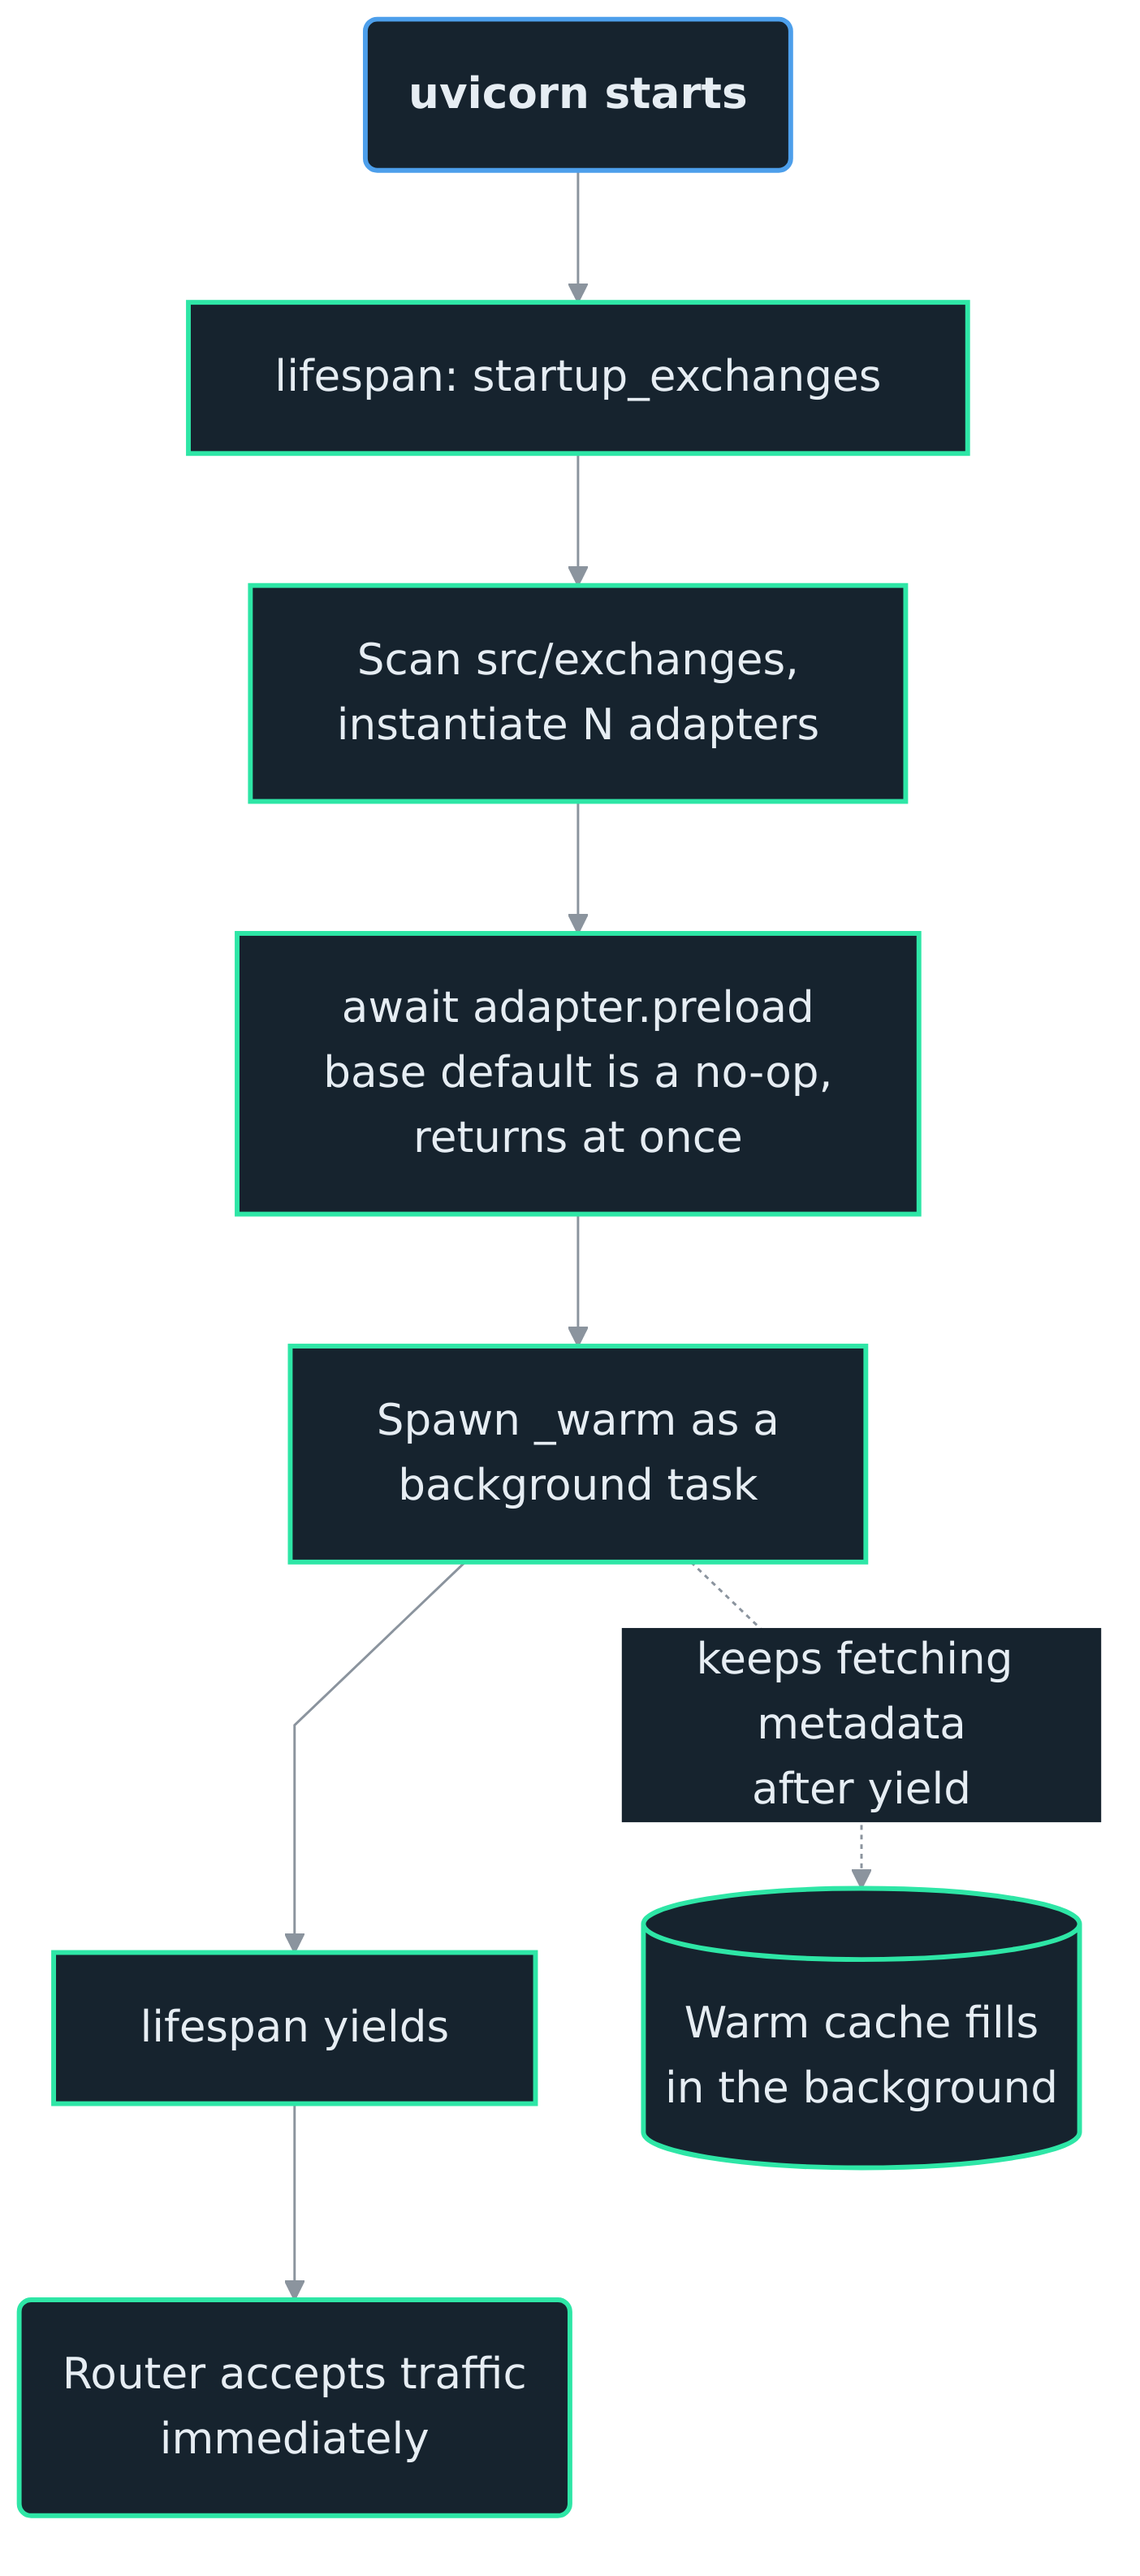
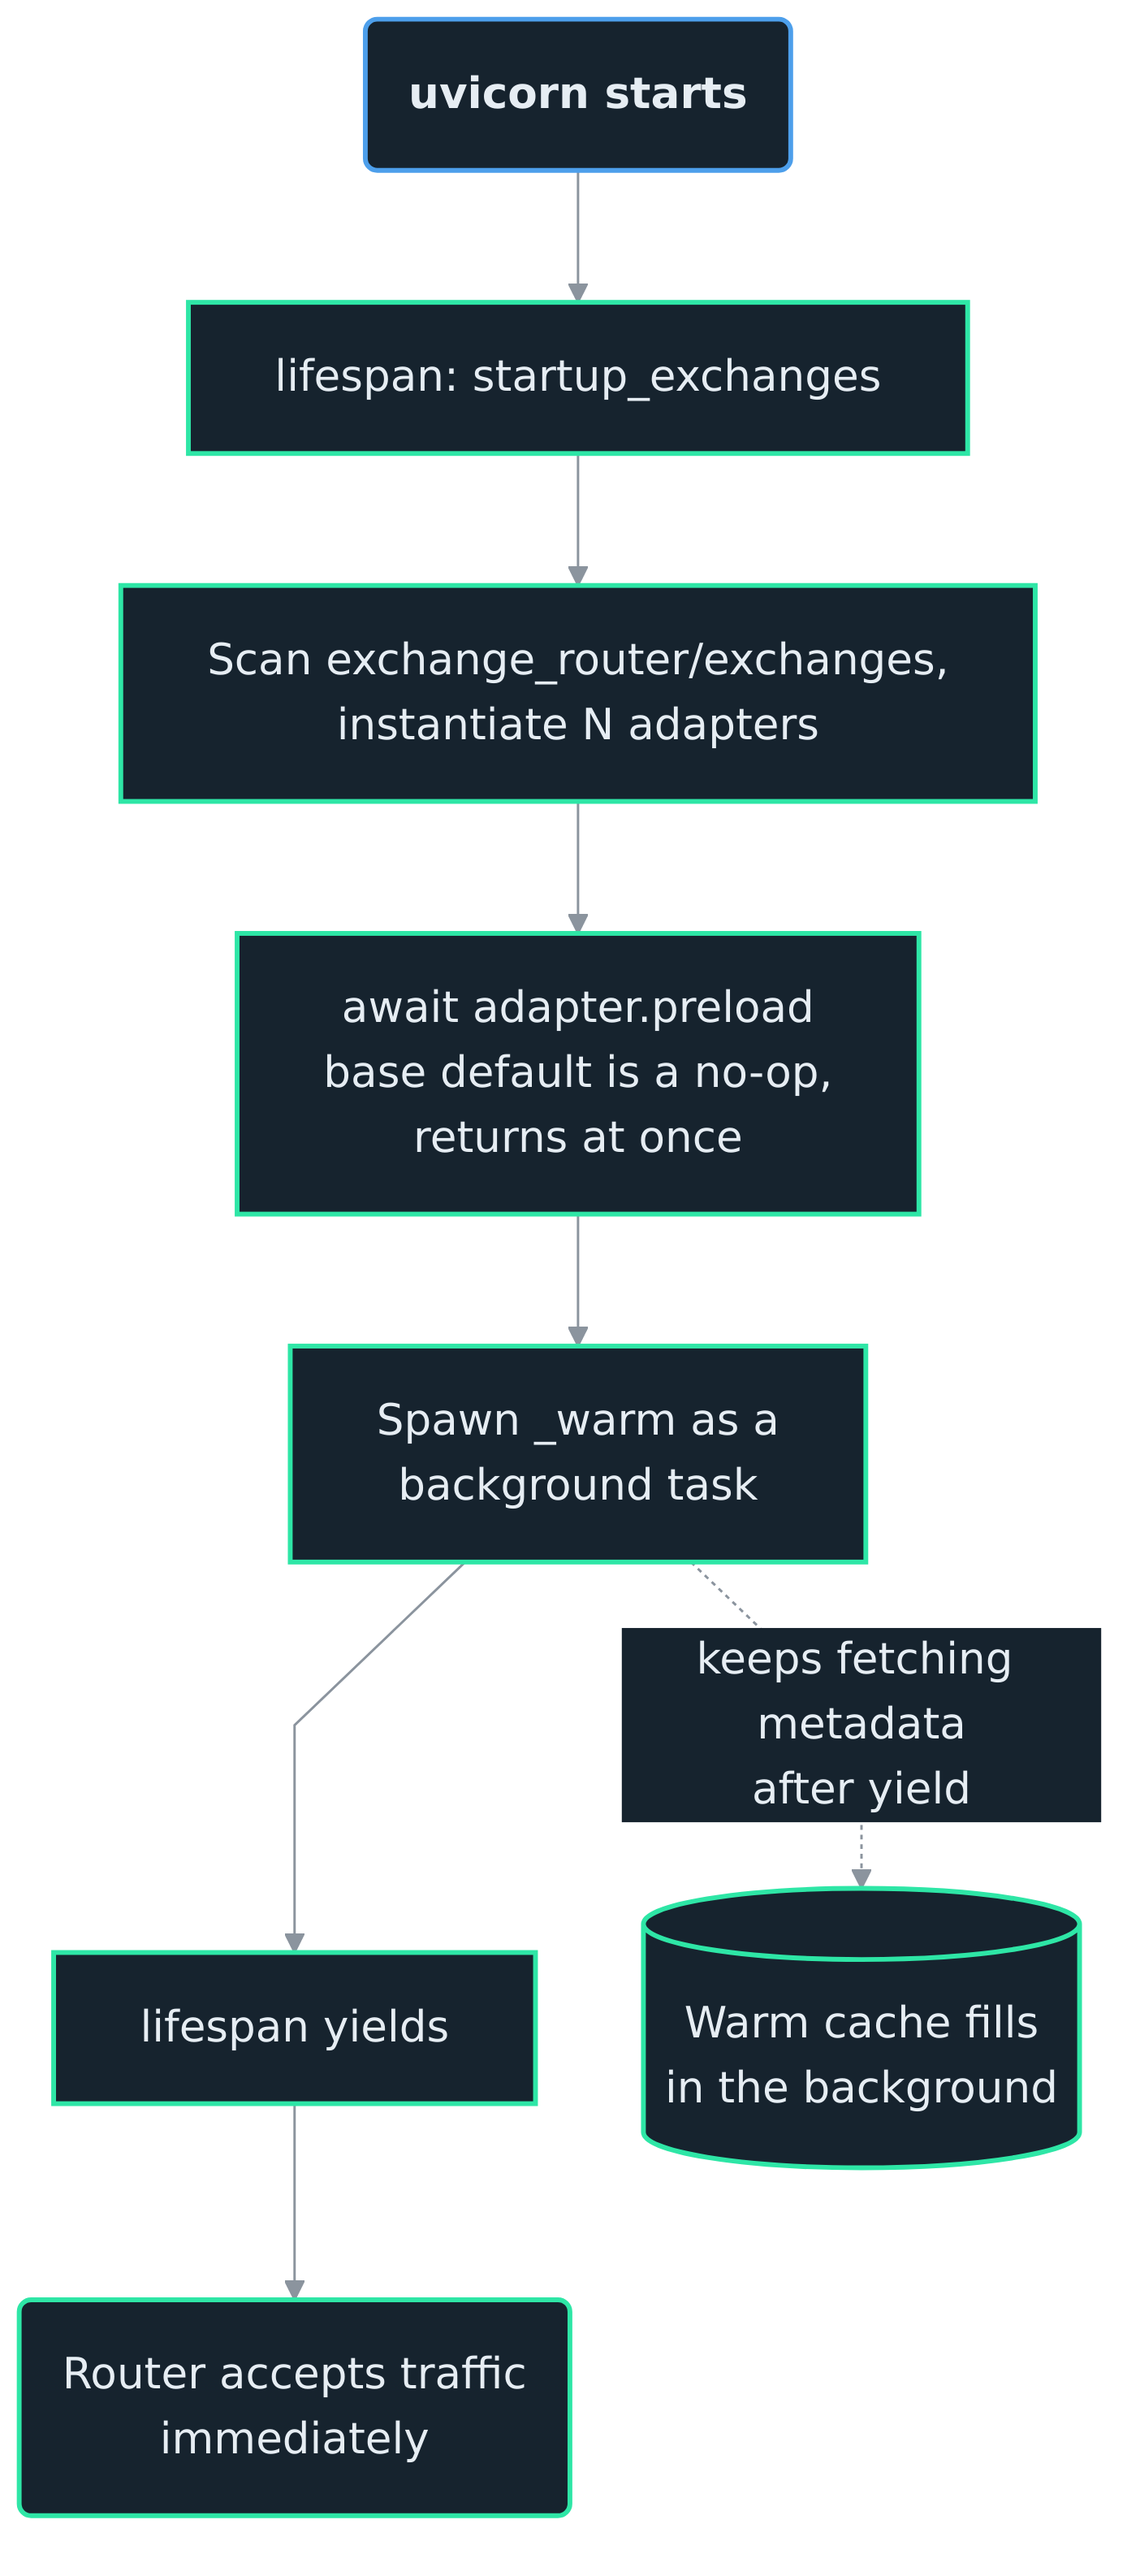
docs: redraw the hero for two modes, add the two-backend diagram and fix a stale path in the startup one

Changed region(s): [[0.0919, 0.2185, 0.9188, 0.3122]]

diff --git a/.Documentation/Contributor_Guide.md b/.Documentation/Contributor_Guide.md
@@ -91,7 +91,7 @@ docker run --rm --shm-size=1g \
   -c 'set -e; for f in /diagrams/*.mmd; do n=$(basename "$f" .mmd); /home/mermaidcli/node_modules/.bin/mmdc -i "$f" -o "/out/$n.png" -c /diagrams/config.json -p /diagrams/puppeteer.json -b transparent -s 3; done'
 ```
 
-The images are numbered rather than named and the descriptive name survives only in their alt text: 204644 is the README hero, 204646 the REST lifecycle, 204647 the WebSocket fan-out, 204648 the startup lifecycle, 204649 the funding timelines, 204650 backward pagination, 204651 rate-limit and ban avoidance. All seven were reconstructed by reading the rendered PNG, because no source was ever kept, so a rerun redraws them rather than reproducing the originals.
+The images are numbered rather than named and the descriptive name survives only in their alt text: 204644 is the README hero, 204646 the REST lifecycle, 204647 the WebSocket fan-out, 204648 the startup lifecycle, 204649 the funding timelines, 204650 backward pagination, 204651 rate-limit and ban avoidance, 204652 the two backends. The first seven were reconstructed by reading the rendered PNG, because no source was ever kept, so a rerun redraws them rather than reproducing the originals; 204652 was authored from its source.
 
 **Three things the setup depends on.** The image's bundled headless-shell is broken with an ENOENT, so `puppeteer.json` points `executablePath` at the chromium the image also ships, and its entrypoint is `mmdc` itself, so the command above clears it and calls the binary by full path. The background has to be `transparent` rather than white, or the images invert badly against GitHub's dark mode, which is what the replaced set did. And no `-w`: mermaid's own width keeps the wide diagrams at a consistent 2352 across, which is why the `width=` values in the pages can stay as they are.
 

diff --git a/.Documentation/Architecture.md b/.Documentation/Architecture.md
@@ -43,6 +43,11 @@ The seam between the router and a backend is semantic, not URL-shaped. It carrie
 
 The service is one deployment of the same library. `exchange_router/service/main.py` is a FastAPI app over the same adapters and the same shared logic, and the only thing it adds is HTTP, the exception handlers that turn faults into status codes, and the WebSocket fan-out. REST and WebSocket share the port and the adapter instance.
 
+<div align="center">
+  <img src="imgs/204652.png" alt="One API, two backends, rejoining at the adapters" width="46%" />
+  <p style="margin: 0;"><i>One path above the seam, two through it, one below. Everything down to the seam is shared and is never told which backend answered; everything below it is the same adapters reached from a different process</i></p>
+</div>
+
 The two paths are not kept in agreement by discipline. Every test body in the suite runs against both backends and asserts the same frames, dtypes, index, provenance and exception types, which is what [0005](Decisions.md) records and why that suite exists.
 
 <br>

diff --git a/README.md b/README.md
@@ -67,8 +67,8 @@ The one sentence version: local mode is for one researcher in one process, and y
 <br>
 
 <div align="center">
-  <img src=".Documentation/imgs/204644.png" alt="Exchange Router Architecture" width="90%" />
-  <p style="margin: 0;"><i>Architecture: Client -> Router -> Multiple Exchanges</i></p>
+  <img src=".Documentation/imgs/204644.png" alt="One API, two ways to run it" width="90%" />
+  <p style="margin: 0;"><i>One API, two ways to run it: the adapters either live in your process or behind a container you deploy, and the schema is the same either way</i></p>
 </div>
 
 <br>
